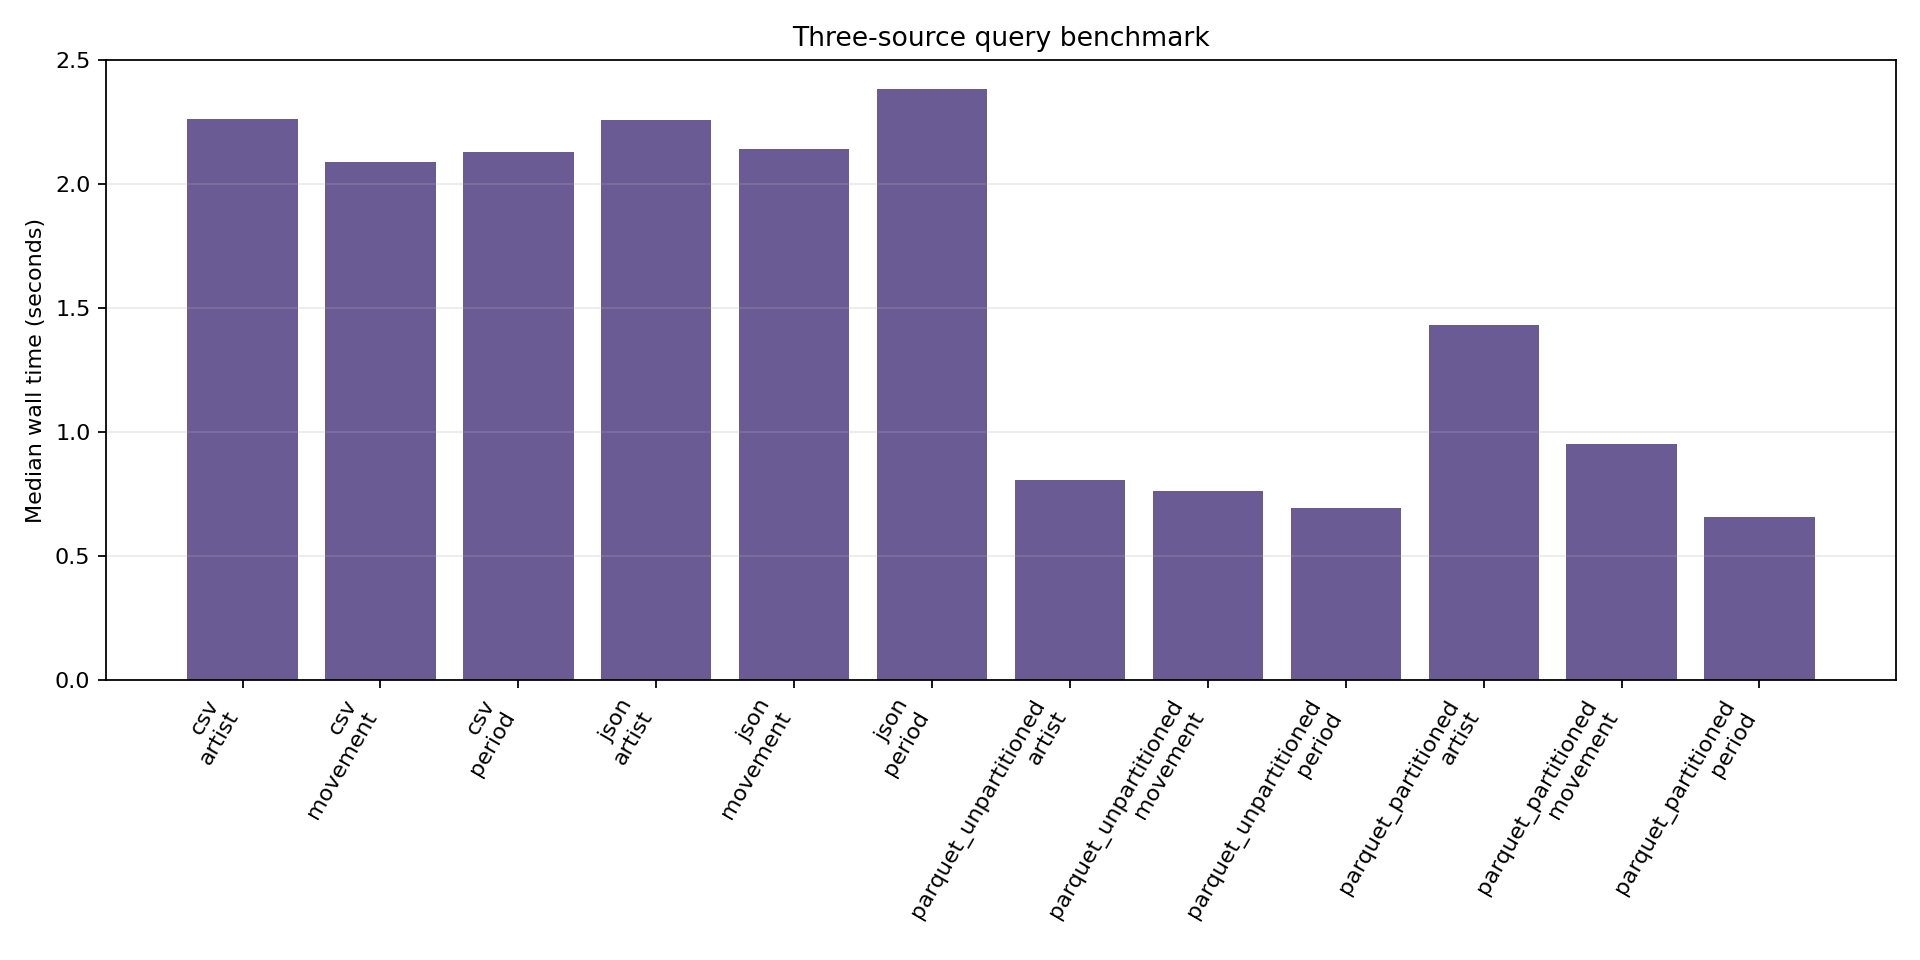
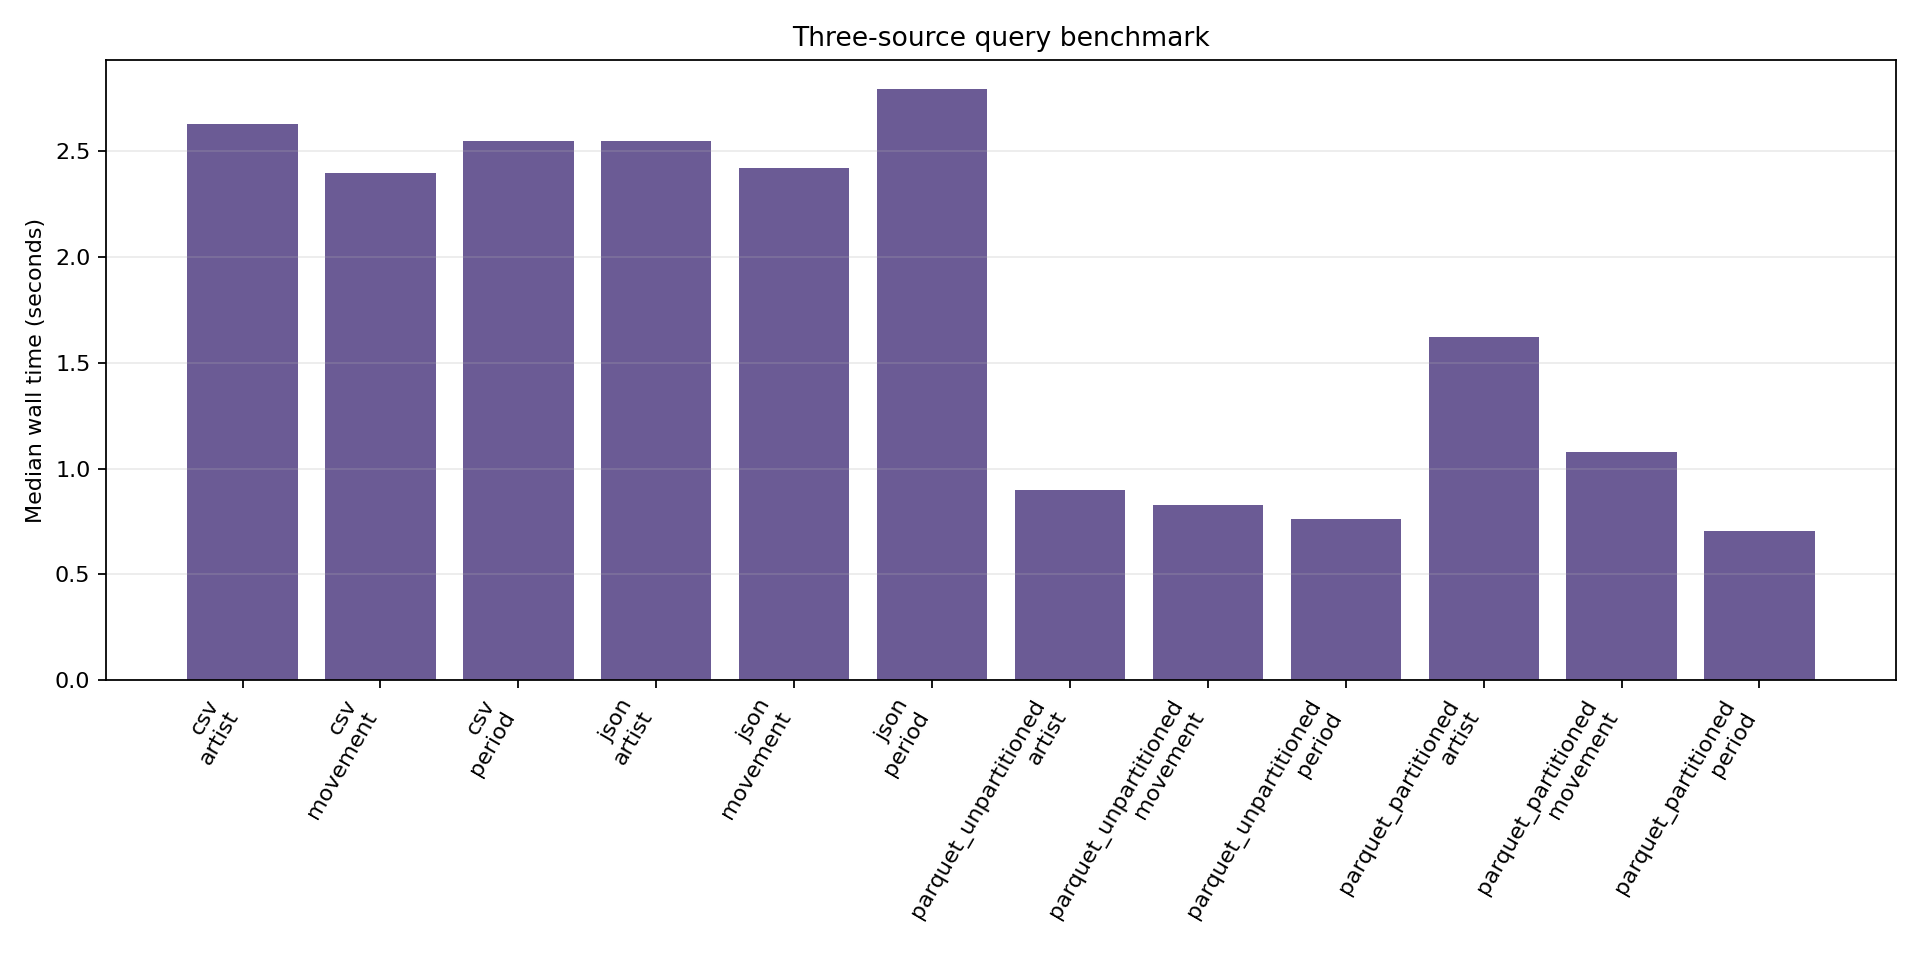
Fix canonical names in integrated summaries

diff --git a/scripts/benchmark/build_integrated_metrics.py b/scripts/benchmark/build_integrated_metrics.py
@@ -124,6 +124,12 @@ def build_metrics(config: dict[str, Any]) -> tuple[pd.DataFrame, pd.DataFrame, d
     dictionary = pd.read_csv(dictionary_path, dtype={"artist_id": "string"})
     bridge = build_bridge(dictionary)
     artist_names = dictionary[["artist_id", "canonical_name"]]
+    artist_name_by_id = artist_names.set_index("artist_id")["canonical_name"]
+    movement_name_by_id = (
+        bridge[["movement_id", "movement_name"]]
+        .drop_duplicates()
+        .set_index("movement_id")["movement_name"]
+    )
 
     ngram_artist = pd.read_json(ngram_artist_path, lines=True)
     ngram_artist = ngram_artist.merge(artist_names, on="artist_id", how="left", validate="many_to_one")
@@ -140,6 +146,12 @@ def build_metrics(config: dict[str, Any]) -> tuple[pd.DataFrame, pd.DataFrame, d
     )
 
     openalex_artist = pd.read_csv(openalex_artist_path, dtype={"artist_id": "string"})
+    openalex_artist["artist_name"] = openalex_artist["artist_id"].map(artist_name_by_id)
+    if openalex_artist["artist_name"].isna().any():
+        missing = openalex_artist.loc[
+            openalex_artist["artist_name"].isna(), "artist_id"
+        ].drop_duplicates().tolist()[:5]
+        raise RuntimeError(f"OpenAlex artist IDs missing from dictionary: {missing}")
     openalex_artist_metrics = metric_rows(
         openalex_artist,
         source="openalex",
@@ -174,10 +186,20 @@ def build_metrics(config: dict[str, Any]) -> tuple[pd.DataFrame, pd.DataFrame, d
         ],
     )
 
-    movement_names = {
-        row["movement_id"]: row.get("dictionary_label") or row.get("query")
-        for row in json.loads(ngram_movements_path.read_text(encoding="utf-8"))
-    }
+    movement_query_definitions = json.loads(
+        ngram_movements_path.read_text(encoding="utf-8")
+    )
+    unknown_movement_ids = sorted(
+        {
+            str(row["movement_id"])
+            for row in movement_query_definitions
+            if str(row["movement_id"]) not in movement_name_by_id.index
+        }
+    )
+    if unknown_movement_ids:
+        raise RuntimeError(
+            f"N-gram movement IDs missing from artist dictionary: {unknown_movement_ids[:5]}"
+        )
 
     ngram_member = ngram_artist.merge(bridge, on="artist_id", how="inner", validate="many_to_many")
     ngram_member = (
@@ -248,7 +270,9 @@ def build_metrics(config: dict[str, Any]) -> tuple[pd.DataFrame, pd.DataFrame, d
     )
 
     ngram_movement = pd.read_json(ngram_movement_path, lines=True)
-    ngram_movement["movement_name"] = ngram_movement["movement_id"].map(movement_names)
+    ngram_movement["movement_name"] = ngram_movement["movement_id"].map(
+        movement_name_by_id
+    )
     ngram_direct_metrics = metric_rows(
         ngram_movement,
         source="ngram",
@@ -262,6 +286,14 @@ def build_metrics(config: dict[str, Any]) -> tuple[pd.DataFrame, pd.DataFrame, d
     )
 
     openalex_movement = pd.read_csv(openalex_movement_path, dtype={"movement_id": "string"})
+    openalex_movement["movement_name"] = openalex_movement["movement_id"].map(
+        movement_name_by_id
+    )
+    if openalex_movement["movement_name"].isna().any():
+        missing = openalex_movement.loc[
+            openalex_movement["movement_name"].isna(), "movement_id"
+        ].drop_duplicates().tolist()[:5]
+        raise RuntimeError(f"OpenAlex movement IDs missing from dictionary: {missing}")
     openalex_direct_metrics = metric_rows(
         openalex_movement,
         source="openalex",
@@ -298,6 +330,10 @@ def build_metrics(config: dict[str, Any]) -> tuple[pd.DataFrame, pd.DataFrame, d
     if metrics.duplicated(key).any():
         sample = metrics.loc[metrics.duplicated(key, keep=False), key].head().to_dict("records")
         raise RuntimeError(f"Integrated metric key is not unique: {sample}")
+    name_counts = metrics.groupby(["entity_type", "entity_id"])["entity_name"].nunique()
+    if (name_counts > 1).any():
+        sample = name_counts[name_counts > 1].head().to_dict()
+        raise RuntimeError(f"Entity IDs have multiple canonical names: {sample}")
     metrics = metrics.sort_values(key).reset_index(drop=True)
 
     validation = {
@@ -338,6 +374,7 @@ def build_metrics(config: dict[str, Any]) -> tuple[pd.DataFrame, pd.DataFrame, d
         "year_max": int(metrics["year"].max()),
         "missing_values_are_not_zero_filled": True,
         "cross_source_values_are_not_summed": True,
+        "entity_id_has_one_canonical_name": True,
         "getty_direct_movement_available": False,
     }
     return metrics, bridge, validation

diff --git a/tests/test_integrated_queries.py b/tests/test_integrated_queries.py
@@ -40,6 +40,7 @@ def test_three_queries_sources_summary_and_join(spark: SparkSession) -> None:
         ("openalex", "artist", "Q1", "One", 1900, "artist_complete_grid", "works_count", 3.0, None, None, "ok"),
         ("getty", "artist", "Q1", "One", 1900, "artist_observed", "confirmed_sale_count", 1.0, None, None, "observed"),
         ("ngram", "movement", "M05", "Impressionism", 1900, "direct_movement_term", "match_count", 4.0, "Impressionism", 1, "observed"),
+        ("openalex", "movement", "M05", "impressionism", 1900, "direct_official_union", "union_works_count", 5.0, None, None, "ok"),
     ]
     metrics = spark.createDataFrame(
         rows,
@@ -63,6 +64,8 @@ def test_three_queries_sources_summary_and_join(spark: SparkSession) -> None:
     assert artist["summary"].count() == 1
     movement = query_outputs(select_query(metrics, "movement", **kwargs))
     assert movement["ngram"].count() == 1
+    assert movement["openalex"].count() == 1
+    assert movement["summary"].count() == 1
     period = query_outputs(select_query(metrics, "period", **kwargs))
     assert period["summary"].count() == 2
 

diff --git a/scripts/benchmark/integrated_queries.py b/scripts/benchmark/integrated_queries.py
@@ -62,12 +62,23 @@ def summary_wide(selected: DataFrame) -> DataFrame:
         )
         .withColumn("source_metric", F.concat_ws("__", "source", "metric"))
     )
-    return (
-        labelled.groupBy(
-            "entity_type", "entity_id", "entity_name", "year", "series_group"
-        )
+    keys = ["entity_type", "entity_id", "year", "series_group"]
+    names = labelled.groupBy(*keys).agg(F.min("entity_name").alias("entity_name"))
+    values = (
+        labelled.groupBy(*keys)
         .pivot("source_metric")
         .agg(F.first("value", ignorenulls=True))
+    )
+    return (
+        names.join(values, keys, "inner")
+        .select(
+            "entity_type",
+            "entity_id",
+            "entity_name",
+            "year",
+            "series_group",
+            *sorted(column for column in values.columns if column not in keys),
+        )
         .orderBy("entity_type", "entity_id", "year", "series_group")
     )
 

diff --git a/docs/task3_comprehensive.md b/docs/task3_comprehensive.md
@@ -144,7 +144,9 @@ The summary contains 71 years and two rows per year: one
 ```
 
 The verified 1900 query returned 666 Ngram metric rows, 5,630 OpenAlex metric
-rows, 24 Getty metric rows and 1,405 summary rows.
+rows, 24 Getty metric rows and 1,400 summary rows. Entity IDs and canonical
+dictionary names are used as the cross-source identity; capitalization variants
+cannot create duplicate summary rows.
 
 ### Year-range query
 
@@ -160,7 +162,7 @@ The verified range query returned:
 | Ngram | 28,648 |
 | OpenAlex | 399,730 |
 | Getty | 1,149 |
-| Cross-source summary | 99,726 |
+| Cross-source summary | 99,400 |
 
 Every generated manifest records a checksum for each independent source and the
 summary.
@@ -190,8 +192,8 @@ Fixed configuration:
 |---|---:|
 | CSV | 134,485,879 |
 | JSON Lines | 332,336,831 |
-| Unpartitioned Parquet | 705,115 |
-| Year-partitioned Parquet | 13,695,687 |
+| Unpartitioned Parquet | 703,911 |
+| Year-partitioned Parquet | 13,680,765 |
 
 Unpartitioned Parquet is highly compact because the metric-long table contains
 many repeated categorical values and zero-filled OpenAlex annual measures. The
@@ -201,10 +203,10 @@ many repeated categorical values and zero-filled OpenAlex annual measures. The
 
 | Format | Artist Q296 | Movement M05, 1850–1920 | Period 1900 |
 |---|---:|---:|---:|
-| CSV | 2.263888 s | 2.090540 s | 2.129056 s |
-| JSON Lines | 2.259816 s | 2.144156 s | 2.383648 s |
-| Unpartitioned Parquet | 0.807722 s | 0.761790 s | 0.695844 s |
-| Year-partitioned Parquet | 1.434266 s | 0.952041 s | 0.657919 s |
+| CSV | 2.627414 s | 2.395323 s | 2.544367 s |
+| JSON Lines | 2.547306 s | 2.416618 s | 2.790410 s |
+| Unpartitioned Parquet | 0.900818 s | 0.829913 s | 0.760498 s |
+| Year-partitioned Parquet | 1.618993 s | 1.076985 s | 0.706005 s |
 
 Year partitioning helped the selective one-year query by reading one 61,913-byte
 file. It was slower for the 71-year movement range and the full 220-year artist
@@ -217,10 +219,10 @@ artist metric rows and the 1,533-row bridge:
 
 | Strategy | Median | Output rows |
 |---|---:|---:|
-| Standard join | 0.442307 s | 14,181 |
-| Broadcast join | 0.345237 s | 14,181 |
+| Standard join | 0.434860 s | 14,181 |
+| Broadcast join | 0.319699 s | 14,181 |
 
-Broadcast was about 22% faster in this integrated workload. This differs from
+Broadcast was about 26% faster in this integrated workload. This differs from
 the earlier OpenAlex-only benchmark, where broadcast was slower. Join strategy
 therefore depends on the input layout and must be measured for the final query,
 not selected from a general rule.

diff --git a/outputs/integrated_benchmark_summary.md b/outputs/integrated_benchmark_summary.md
@@ -16,25 +16,25 @@ All measurements were made on the documented Windows computer. Fixture generatio
 
 | Format | Query | Files read | Bytes read | Total bytes | Median seconds | Output rows |
 |---|---:|---:|---:|---:|---:|---:|
-| csv | artist | 1 | 134485879 | 134485879 | 2.263888 | 1573 |
-| csv | movement | 1 | 134485879 | 134485879 | 2.09054 | 1194 |
-| csv | period | 1 | 134485879 | 134485879 | 2.129056 | 7725 |
-| json | artist | 1 | 332336831 | 332336831 | 2.259816 | 1573 |
-| json | movement | 1 | 332336831 | 332336831 | 2.144156 | 1194 |
-| json | period | 1 | 332336831 | 332336831 | 2.383648 | 7725 |
-| parquet_unpartitioned | artist | 1 | 705115 | 705115 | 0.807722 | 1573 |
-| parquet_unpartitioned | movement | 1 | 705115 | 705115 | 0.76179 | 1194 |
-| parquet_unpartitioned | period | 1 | 705115 | 705115 | 0.695844 | 7725 |
-| parquet_partitioned | artist | 220 | 13695687 | 13695687 | 1.434266 | 1573 |
-| parquet_partitioned | movement | 71 | 4104852 | 13695687 | 0.952041 | 1194 |
-| parquet_partitioned | period | 1 | 61913 | 13695687 | 0.657919 | 7725 |
+| csv | artist | 1 | 134485879 | 134485879 | 2.627414 | 1573 |
+| csv | movement | 1 | 134485879 | 134485879 | 2.395323 | 1194 |
+| csv | period | 1 | 134485879 | 134485879 | 2.544367 | 7720 |
+| json | artist | 1 | 332336831 | 332336831 | 2.547306 | 1573 |
+| json | movement | 1 | 332336831 | 332336831 | 2.416618 | 1194 |
+| json | period | 1 | 332336831 | 332336831 | 2.79041 | 7720 |
+| parquet_unpartitioned | artist | 1 | 703911 | 703911 | 0.900818 | 1573 |
+| parquet_unpartitioned | movement | 1 | 703911 | 703911 | 0.829913 | 1194 |
+| parquet_unpartitioned | period | 1 | 703911 | 703911 | 0.760498 | 7720 |
+| parquet_partitioned | artist | 220 | 13680765 | 13680765 | 1.618993 | 1573 |
+| parquet_partitioned | movement | 71 | 4093976 | 13680765 | 1.076985 | 1194 |
+| parquet_partitioned | period | 1 | 61880 | 13680765 | 0.706005 | 7720 |
 
 ## Join strategy
 
 | Strategy | Median seconds | Output rows |
 |---|---:|---:|
-| standard | 0.442307 | 14181 |
-| broadcast | 0.345237 | 14181 |
+| standard | 0.43486 | 14181 |
+| broadcast | 0.319699 | 14181 |
 
 Every storage format and both join strategies produced identical row counts and checksums.
 Shuffle bytes remain unavailable because PySpark 3.5 has no stable public per-query Python metrics API. HDFS is not configured on this machine.
